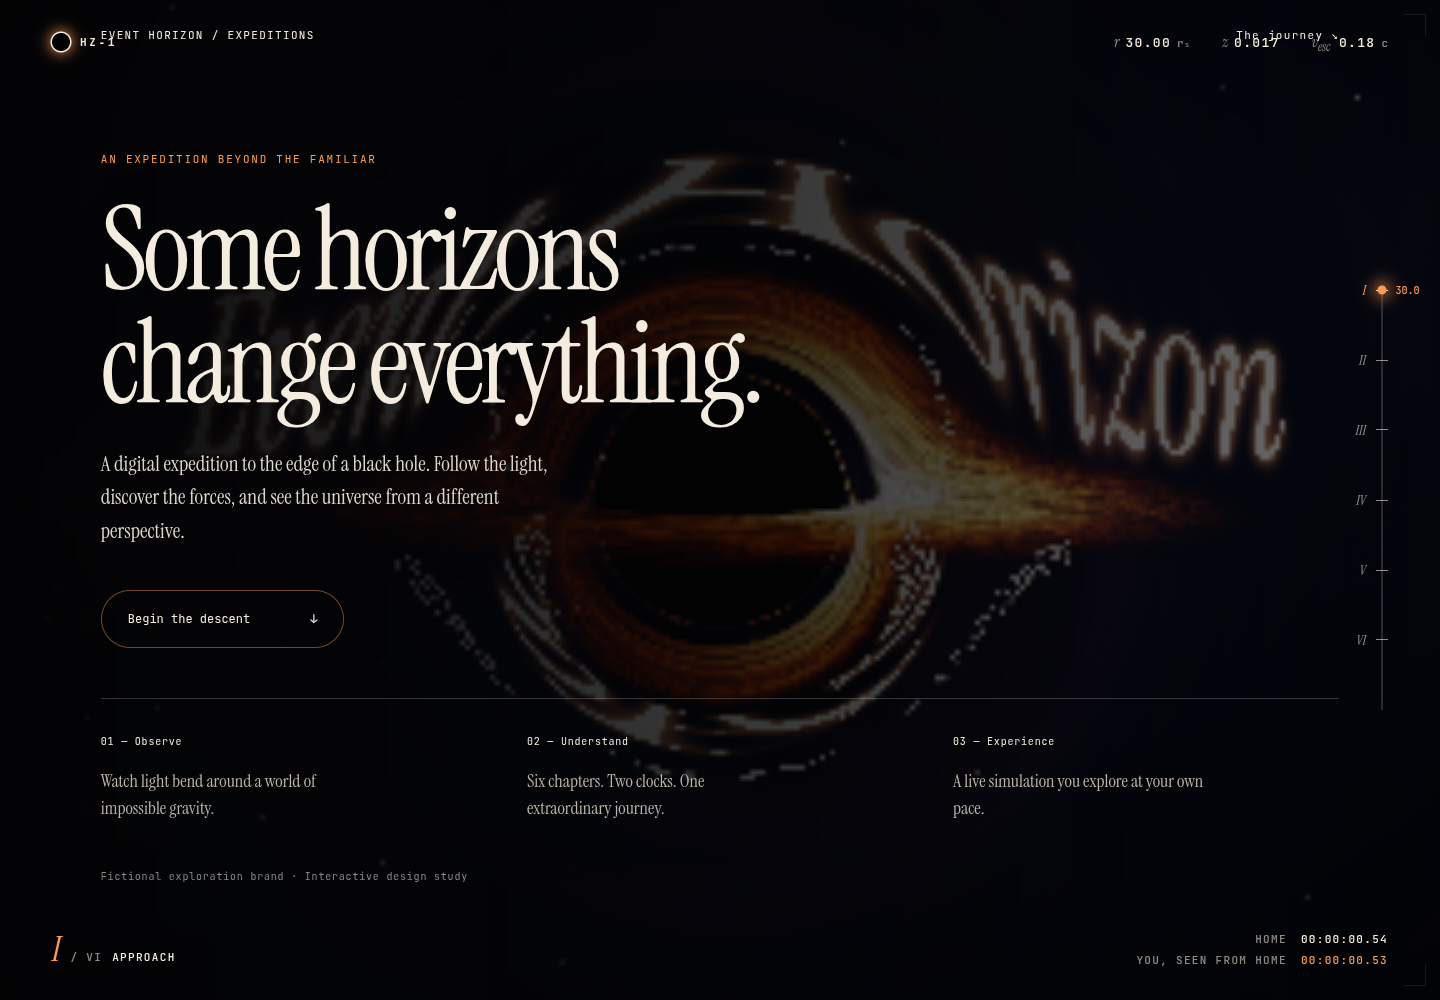
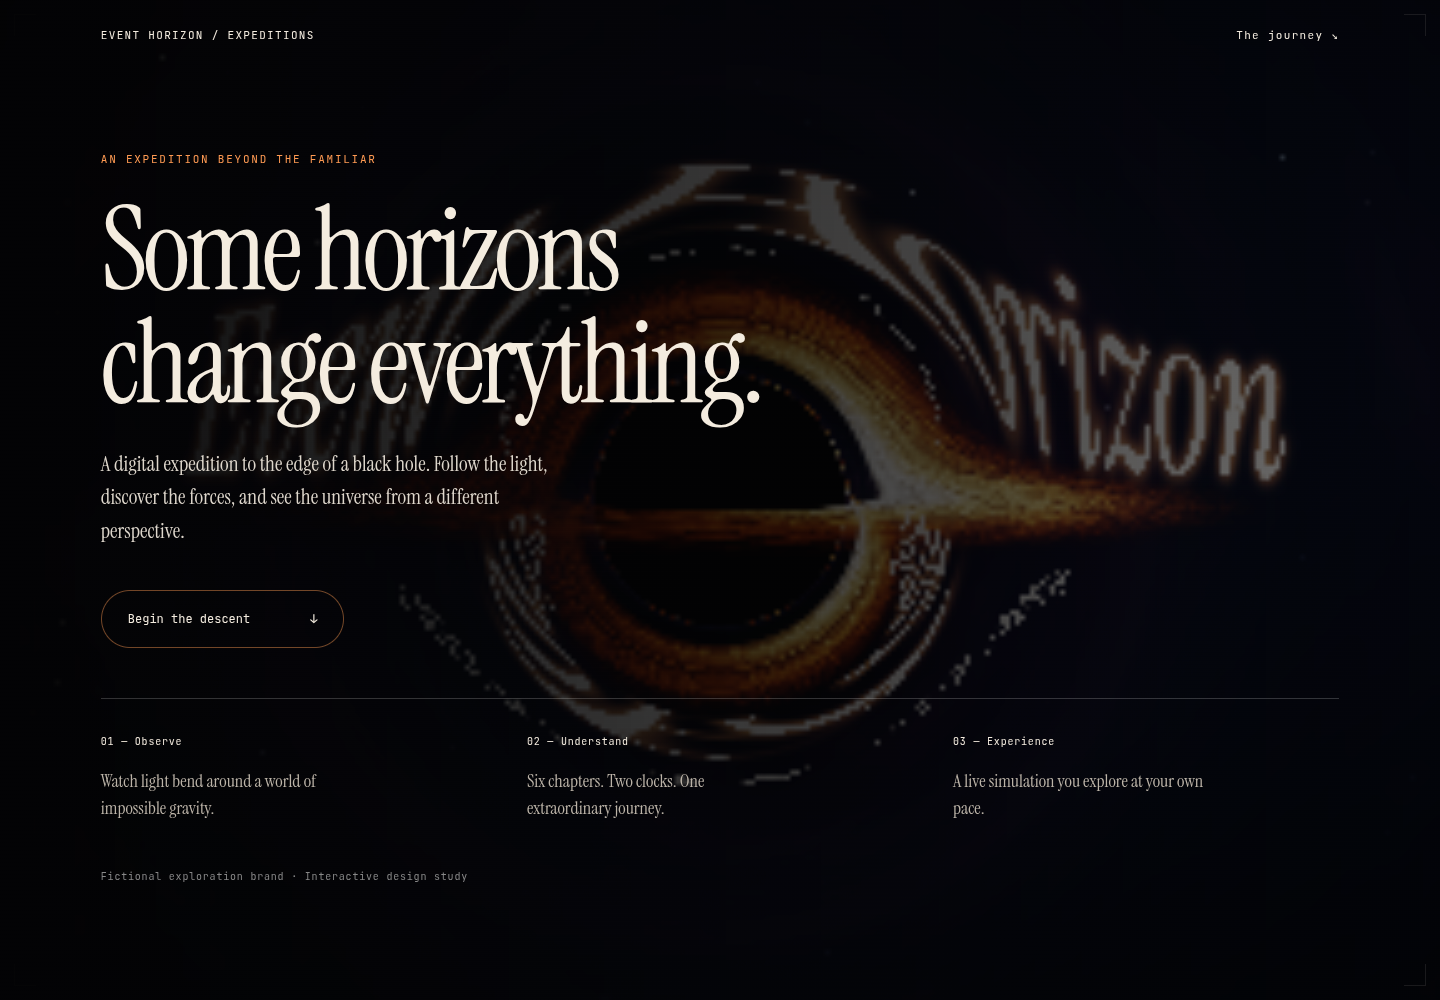
Keep expedition introduction clear of journey telemetry

diff --git a/src/main.ts b/src/main.ts
@@ -164,6 +164,10 @@ function tick() {
   state.lastTime = now;
   if (!state.running) return;
 
+  root.classList.toggle(
+    'is-overview',
+    sections[0].getBoundingClientRect().top > window.innerHeight * 0.3,
+  );
   const scroll = readScroll();
   const follow = reduceMotion ? 1 : 1 - Math.exp(-dt * 6);
   state.progress += (scroll.progress - state.progress) * follow;

diff --git a/src/styles.css b/src/styles.css
@@ -1259,3 +1259,18 @@ h2 {
 .is-ready .loader {
   display: none;
 }
+
+.is-overview .hud,
+.is-overview .gauge,
+.is-overview .reticle {
+  opacity: 0;
+  pointer-events: none;
+}
+.is-overview .hud a {
+  pointer-events: none;
+}
+@media (max-width: 700px) {
+  .mission-intro {
+    background: #030304e8;
+  }
+}

diff --git a/index.html b/index.html
@@ -1,5 +1,5 @@
 <!doctype html>
-<html lang="en">
+<html lang="en" class="is-overview">
   <head>
     <meta charset="UTF-8" />
     <meta name="viewport" content="width=device-width, initial-scale=1.0" />
